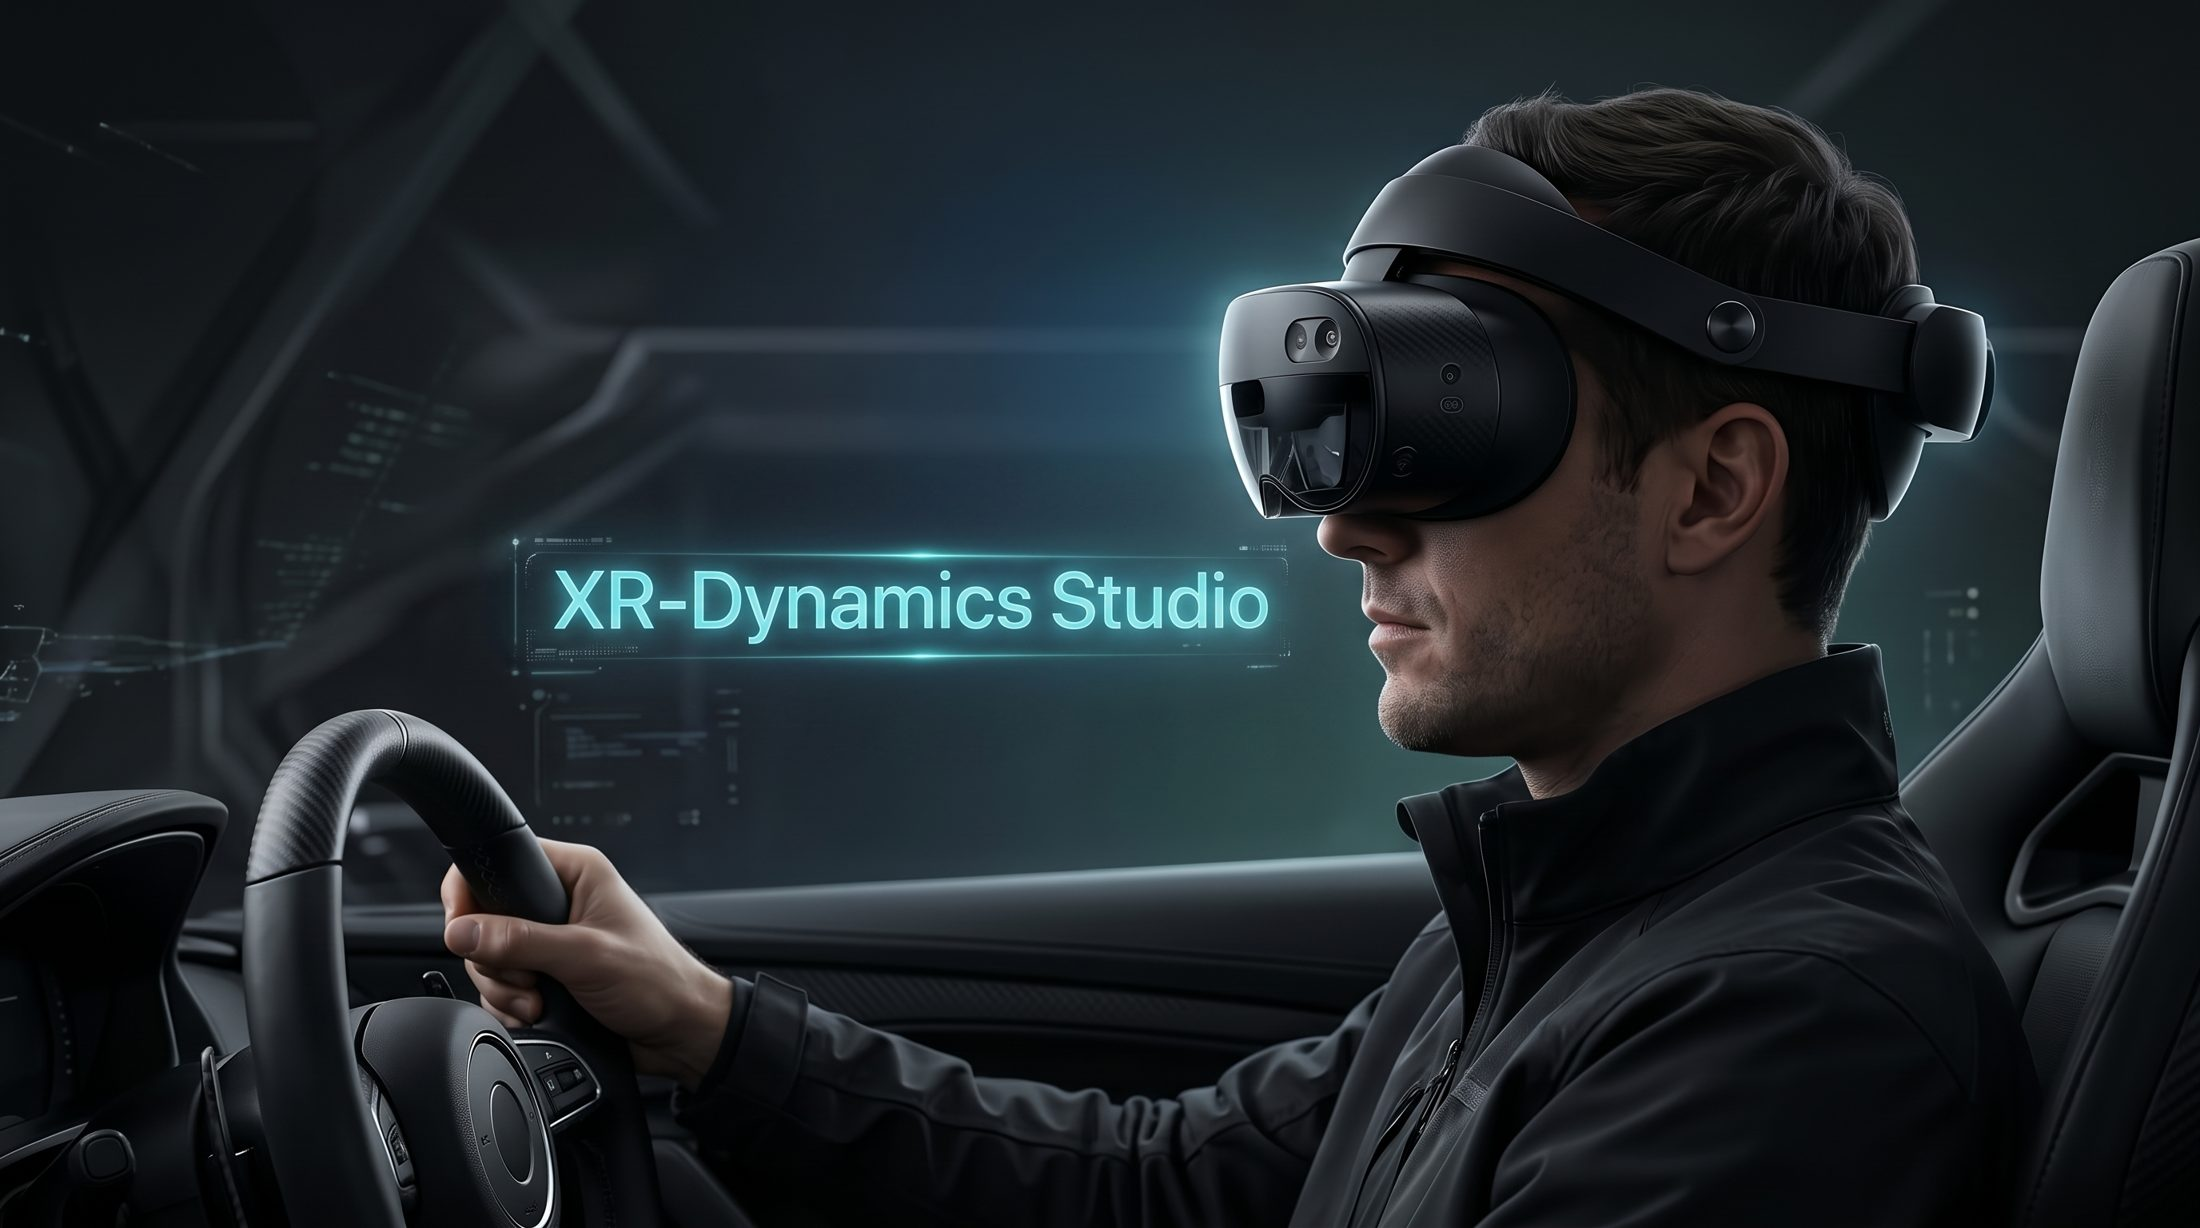
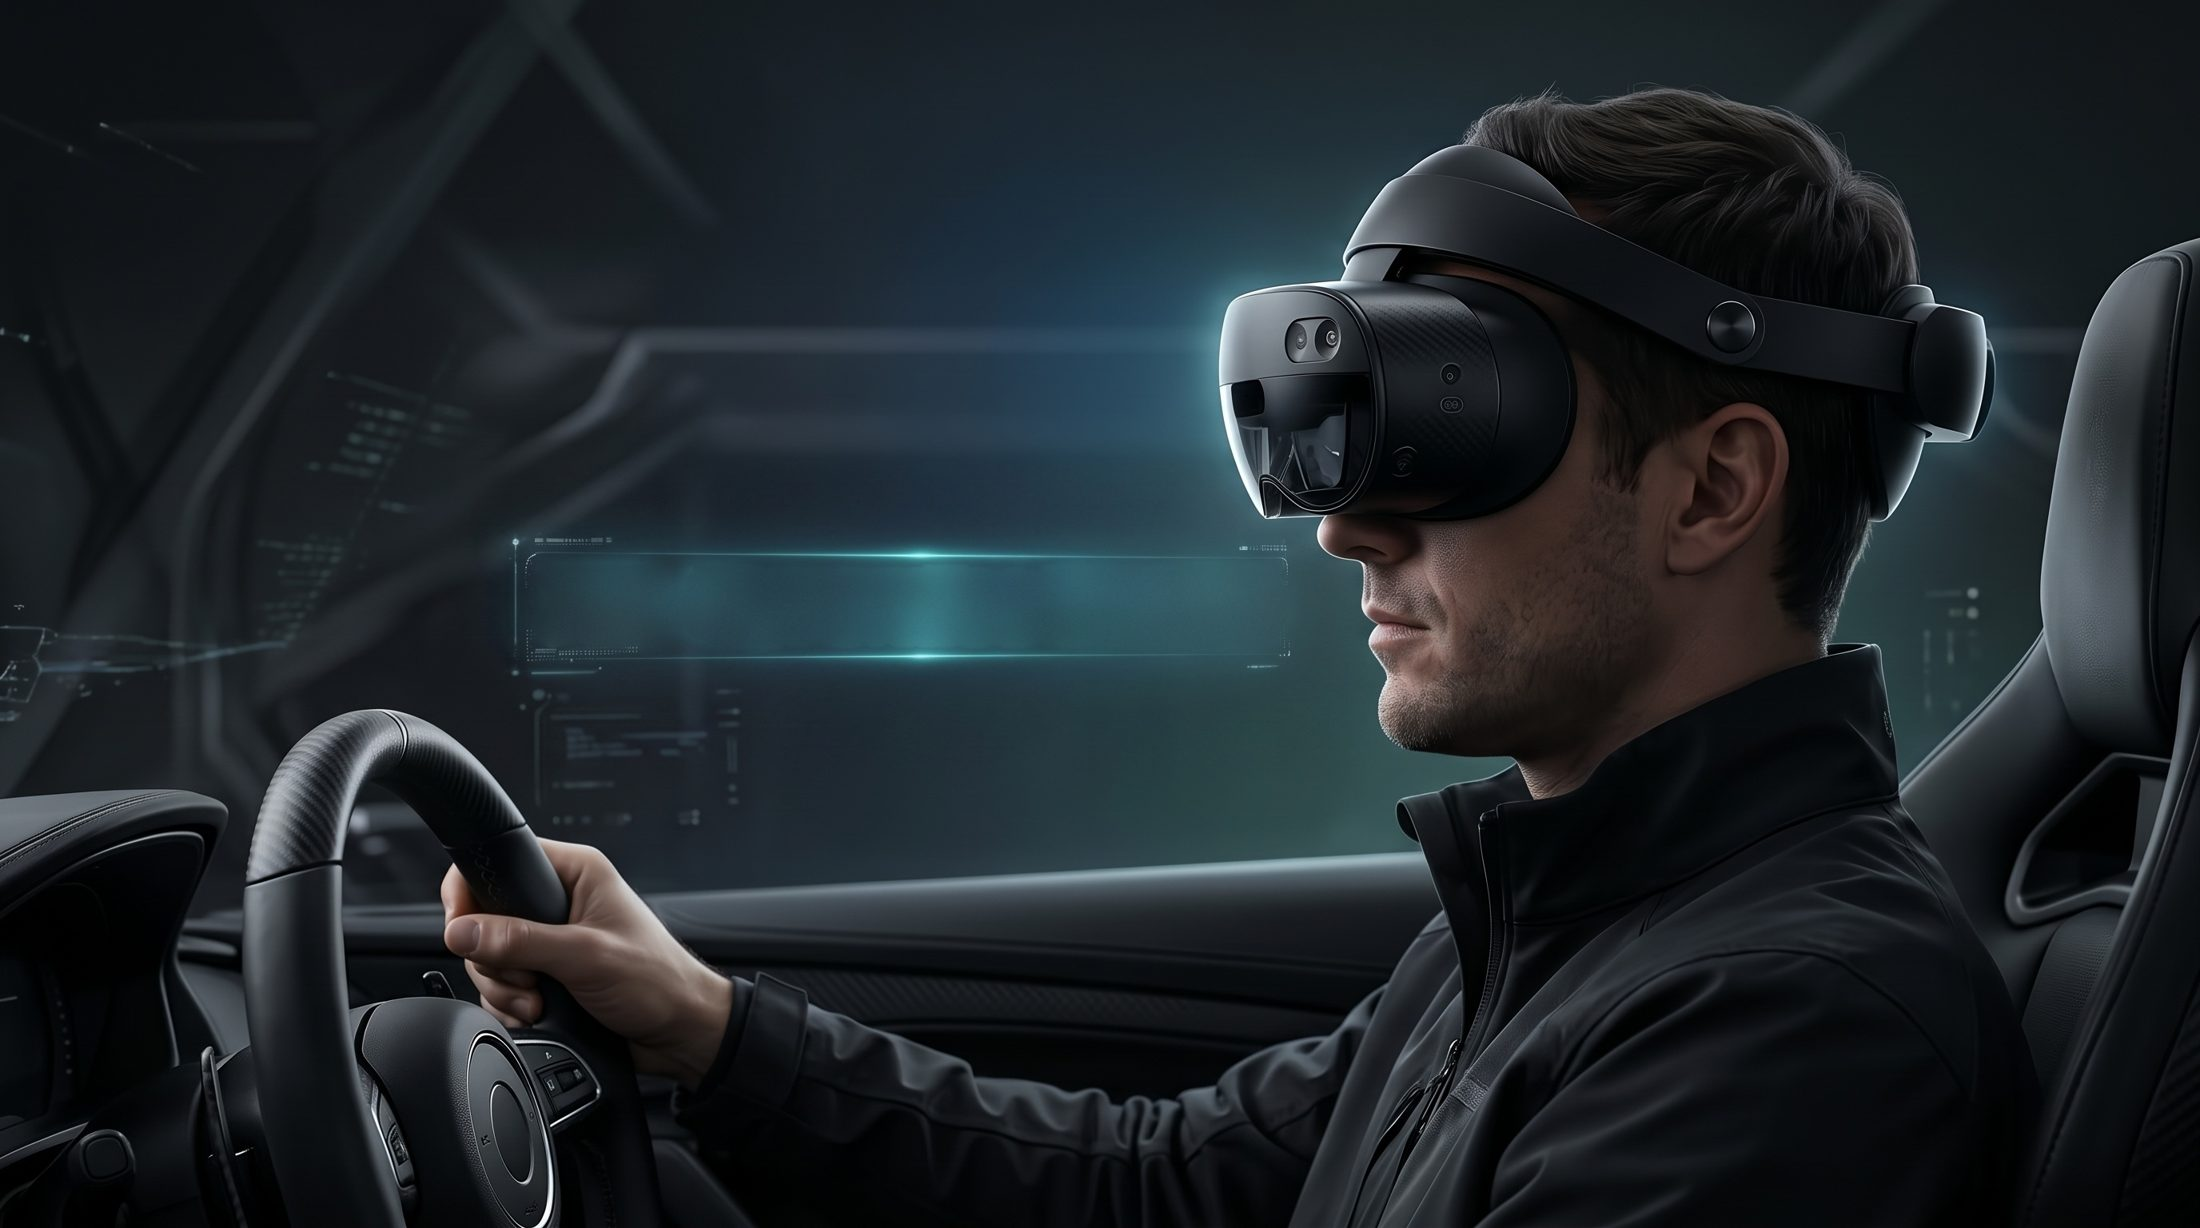
Add files via upload

Changed region(s): [[0.2473, 0.4642, 0.5873, 0.5261]]

diff --git a/main.js b/main.js
@@ -4,10 +4,27 @@
              Empty list, or "PASTE_GOOGLE_DRIVE_LINK_HERE", shows VIDEO COMING SOON.
    - link:   where "View Project" goes (GitHub repo, page, etc.).
              null shows "Project not hosted" when clicked.
+   - notHosted: true adds a "View Project" button that says "Project not hosted"
+             next to the link button.
+   - videos entries can also be { image } (a still) or { slides: [...] } (slideshow).
    ===================================================================== */
 const D = id => `https://drive.google.com/file/d/${id}/view?usp=sharing`;
 
 const PROJECTS = [
+  {
+    name: "Flight Dynamics",
+    videos: [
+      { image: "assets/flight-dynamics/cover.jpg", label: "Overview", alt: "Flight Dynamics plugin cover: a fighter jet taking off with afterburner on a dark runway" },
+      { slides: Array.from({ length: 15 }, (_, n) => `assets/flight-dynamics/slide-${String(n + 1).padStart(2, "0")}.jpg`), label: "Gallery" }
+    ],
+    description: "A physics-based flight dynamics plugin for Unreal Engine 5.5 to 5.8, with real lift, drag and thrust simulated in the Chaos physics engine.",
+    explain: "Realistic physics across the entire speed and altitude range, from runway take-off to landing. Advanced fly-by-wire keeps the aircraft inside its flight envelope while control surfaces follow the flight computer. Includes retractable landing gear, a feature-rich HUD (airspeed, Mach, G, angle of attack, altitude, vertical speed, thrust), three camera modes and an afterburner plume.",
+    tech: ["Unreal Engine 5.5 - 5.8", "Chaos Physics", "Fly-by-Wire", "C++", "Flight Dynamics"],
+    badge: true,
+    linkLabel: "View on Fab",
+    link: "https://www.fab.com/sellers/Ritzredemption",
+    notHosted: true
+  },
   {
     name: "VR Flight Control",
     videos: [D("1FySv33YDpeFj6nYDj_9p9xyYhpNBCROk"), D("1WKge83s7ZWFLK5QQ7wHg3SJ0yMPHQThu")],
@@ -87,8 +104,18 @@ const EMPTY = `<div class="video-empty"><div class="play"></div><span>VIDEO COMI
 
 function render() {
   document.getElementById("projects").innerHTML = PROJECTS.map((p, i) => {
-    const list = (p.videos && p.videos.length ? p.videos : [null, null]).map(v => (v && v.src) ? v : { src: v });
+    const list = (p.videos && p.videos.length ? p.videos : [null, null]).map(v => (v && typeof v === "object") ? v : { src: v });
     const cells = list.map((v, k) => {
+      if (v.image) {
+        return `<figure><div class="video"><img class="cover-img" src="${esc(v.image)}" alt="${esc(v.alt || p.name)}" loading="lazy"></div><figcaption>${esc(v.label || "Image")}</figcaption></figure>`;
+      }
+      if (v.slides) {
+        const imgs = v.slides.map((u, n) => `<img src="${esc(u)}" alt="${esc(p.name)} screenshot ${n + 1} of ${v.slides.length}" ${n ? 'loading="lazy"' : ""}>`).join("");
+        return `<figure><div class="video slideshow" role="region" aria-roledescription="carousel" aria-label="${esc(p.name)} screenshots">${imgs}
+          <button type="button" class="ss-btn prev" aria-label="Previous image">&#8249;</button>
+          <button type="button" class="ss-btn next" aria-label="Next image">&#8250;</button>
+          <span class="ss-count" aria-live="off"></span></div><figcaption>${esc(v.label || "Gallery")}</figcaption></figure>`;
+      }
       const src = driveEmbed(v.src);
       const media = src
         ? `<iframe src="${esc(src)}" title="${esc(p.name)} demo ${k + 1}" loading="lazy" allow="autoplay; fullscreen" allowfullscreen></iframe>`
@@ -108,6 +135,7 @@ function render() {
             ? `<a class="view" href="${esc(p.link)}" target="_blank" rel="noopener">${esc(p.linkLabel || "View Project")}
             <svg viewBox="0 0 14 14" fill="none" stroke="currentColor" stroke-width="1.8"><path d="M2 12L12 2M5 2h7v7"/></svg></a>`
             : `<button type="button" class="view not-hosted" aria-live="polite">View Project</button>`}
+          ${p.link && p.notHosted ? `<button type="button" class="view not-hosted ghost" aria-live="polite">View Project</button>` : ""}
         </div>
       </div>
     </article>`;
@@ -133,5 +161,32 @@ document.addEventListener("click", e => {
   b._t = setTimeout(() => { b.textContent = "View Project"; b.classList.remove("off"); }, 2500);
 });
 
+function slideshows() {
+  const reduce = matchMedia("(prefers-reduced-motion: reduce)").matches;
+  document.querySelectorAll(".slideshow").forEach(el => {
+    const slides = [...el.querySelectorAll("img")];
+    const count = el.querySelector(".ss-count");
+    let i = 0, timer = null;
+    const show = n => {
+      i = (n + slides.length) % slides.length;
+      slides.forEach((s, k) => s.classList.toggle("on", k === i));
+      count.textContent = `${pad(i + 1)} / ${pad(slides.length)}`;
+    };
+    const stop = () => { clearInterval(timer); timer = null; };
+    const play = () => { if (!reduce && !timer) timer = setInterval(() => show(i + 1), 3500); };
+    el.querySelector(".prev").addEventListener("click", () => { show(i - 1); stop(); play(); });
+    el.querySelector(".next").addEventListener("click", () => { show(i + 1); stop(); play(); });
+    el.addEventListener("mouseenter", stop);
+    el.addEventListener("mouseleave", play);
+    el.addEventListener("focusin", stop);
+    el.addEventListener("focusout", play);
+    show(0);
+    if ("IntersectionObserver" in window) {
+      new IntersectionObserver(es => es.forEach(e => e.isIntersecting ? play() : stop()), { threshold: 0.3 }).observe(el);
+    } else play();
+  });
+}
+
 render();
+slideshows();
 reveal();

diff --git a/style.css b/style.css
@@ -134,3 +134,17 @@ nav a.about:hover{border-color:rgba(55,224,160,.5)}
 /* not-hosted button */
 button.view{border:0;font-family:inherit;cursor:pointer}
 button.view.off{background:var(--bg-soft);color:var(--muted);border:1px solid var(--line-strong);transform:none;box-shadow:none}
+
+/* image + slideshow cells (same 16:9 box as the videos) */
+.video .cover-img{position:absolute;inset:0;width:100%;height:100%;object-fit:cover;display:block}
+.slideshow img{position:absolute;inset:0;width:100%;height:100%;object-fit:cover;opacity:0;transition:opacity .8s ease}
+.slideshow img.on{opacity:1}
+.ss-btn{position:absolute;top:50%;transform:translateY(-50%);z-index:2;width:38px;height:38px;border-radius:50%;border:1px solid var(--line-strong);background:rgba(8,9,11,.55);color:var(--text);font:400 24px/1 var(--sans);display:grid;place-items:center;padding:0 0 3px;cursor:pointer;opacity:0;transition:opacity .25s,border-color .25s}
+.ss-btn.prev{left:12px}.ss-btn.next{right:12px}
+.slideshow:hover .ss-btn,.slideshow:focus-within .ss-btn{opacity:1}
+.ss-btn:hover{border-color:rgba(55,224,160,.6)}
+.ss-count{position:absolute;right:12px;bottom:10px;z-index:2;font-size:11px;letter-spacing:.2em;color:var(--text);background:rgba(8,9,11,.55);border-radius:999px;padding:3px 10px}
+@media(hover:none){.ss-btn{opacity:1}}
+button.view.ghost{background:transparent;color:var(--text);border:1px solid var(--line-strong)}
+button.view.ghost.off{color:var(--muted)}
+.side .view+.view{margin-top:-12px}
